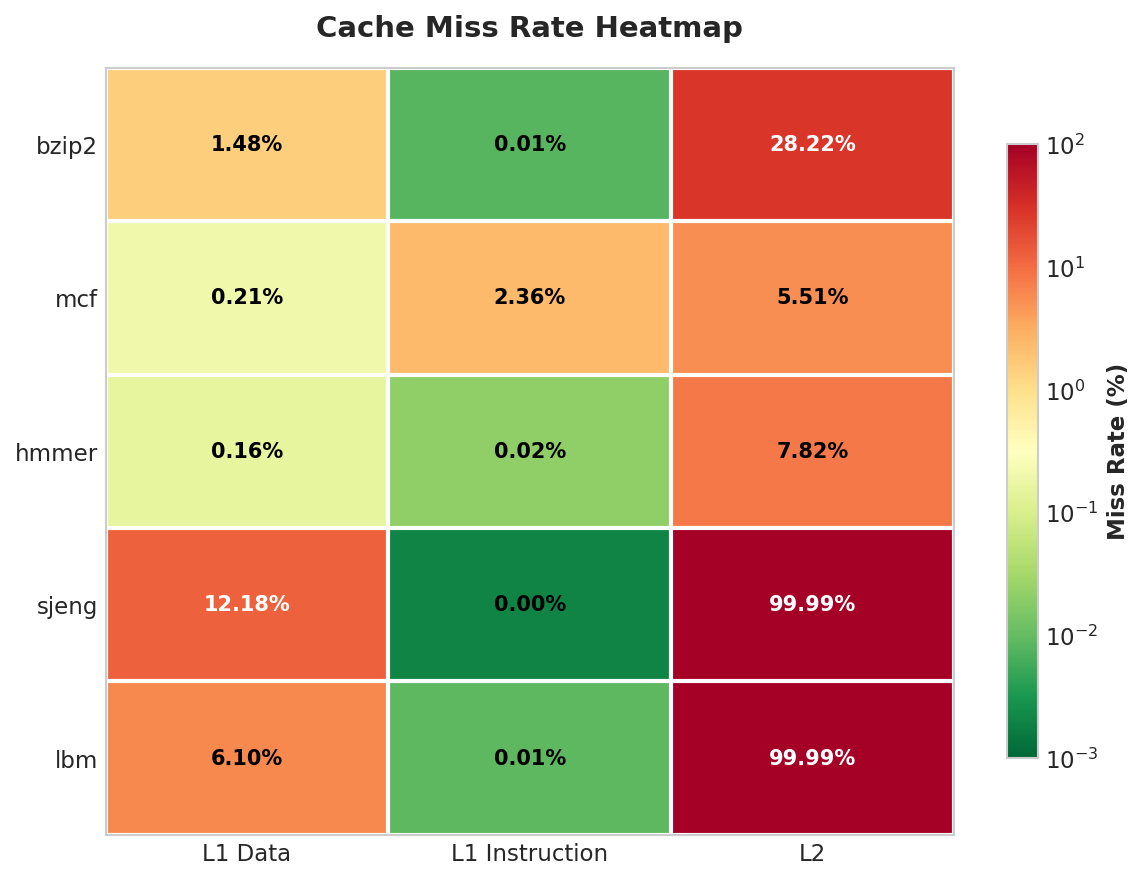
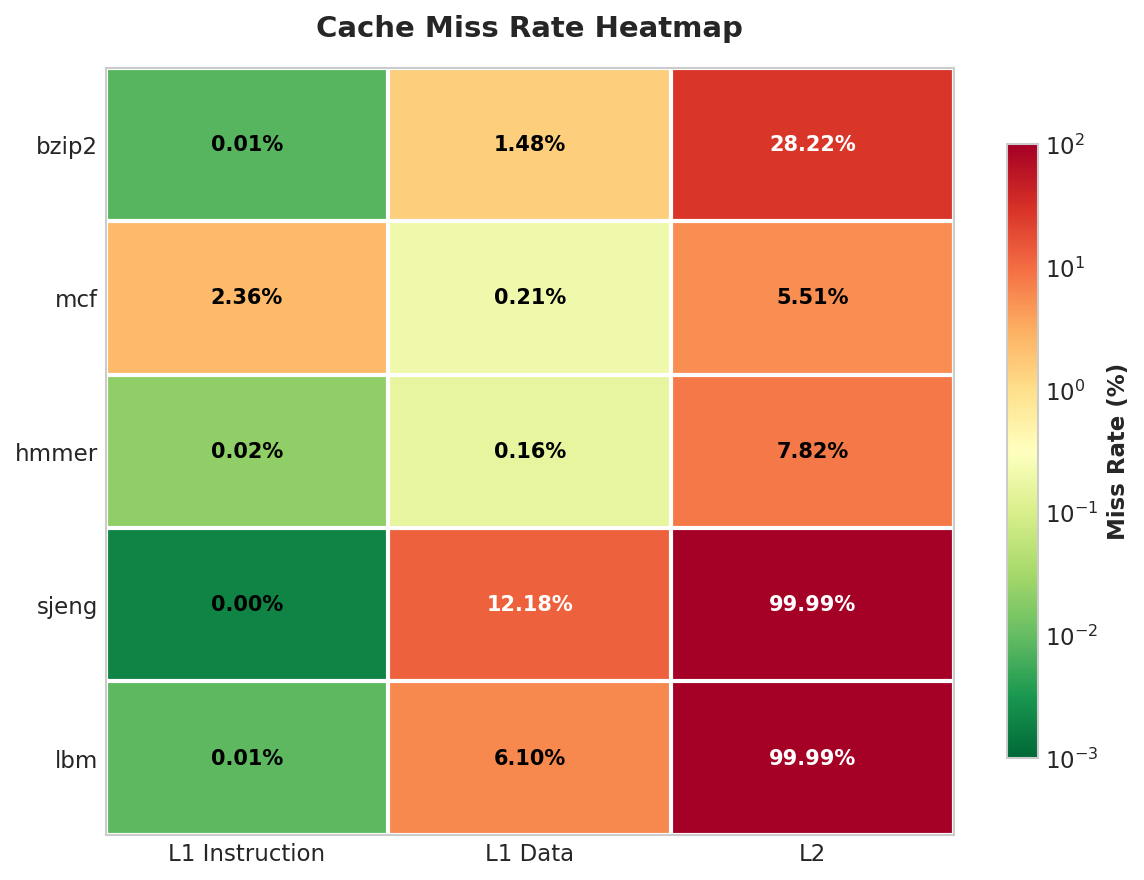
docs: improve "Part 1" of README report

diff --git a/bonus-assigment/scripts/plot_1.py b/bonus-assigment/scripts/plot_1.py
@@ -114,8 +114,8 @@ print(f"✓ Created: cpi_simtime_dual_axis.png")
 # =============================================================================
 fig, ax = plt.subplots(figsize=(8, 6))
 
-miss_data = np.array([l1d_miss, l1i_miss, l2_miss]).T
-cache_levels = ['L1 Data', 'L1 Instruction', 'L2']
+miss_data = np.array([l1i_miss, l1d_miss, l2_miss]).T
+cache_levels = ['L1 Instruction', 'L1 Data', 'L2']
 
 import matplotlib.colors as mcolors
 norm = mcolors.LogNorm(vmin=0.001, vmax=100)
@@ -305,15 +305,19 @@ plt.close()
 print(f"✓ Created: scaling_vs_cache_miss.png")
 
 # =============================================================================
-# Question 4: Memory Technology Impact - Improvement vs L2 Miss Rate
+# Question 4: Memory Technology Impact - Improvement vs Effective DRAM Miss Rate
 # =============================================================================
 
-# Data: DDR3_1600 (Baseline) vs DDR3_2133 (Upgraded) - sorted by L2 miss rate
+# Data: DDR3_1600 (Baseline) vs DDR3_2133 (Upgraded) - sorted by effective miss rate
 benchmarks_mem = ['hmmer', 'mcf', 'bzip2', 'lbm', 'sjeng']
 cpi_1600 = [1.1879, 1.2940, 1.6800, 3.4938, 10.2705]
 cpi_2133 = [1.1877, 1.2909, 1.6719, 3.4306, 9.8626]
 l2_miss_mem = [7.82, 5.51, 28.22, 99.99, 99.99]
 l1d_miss_mem = [0.16, 0.21, 1.48, 6.10, 12.18]
+
+# Combined metric: effective DRAM miss rate = L1d_miss × L2_miss / 100
+# This captures the fraction of instructions that actually reach main memory
+effective_miss = [l1d * l2 / 100 for l1d, l2 in zip(l1d_miss_mem, l2_miss_mem)]
 
 # Calculate improvements
 improvement = [(old - new) / old * 100 for old, new in zip(cpi_1600, cpi_2133)]
@@ -323,48 +327,51 @@ fig, ax = plt.subplots(figsize=(12, 8))
 ax.set_facecolor('#fafbfc')
 fig.patch.set_facecolor('white')
 
-# Background zones
-compute_zone = Rectangle((0, -0.5), 30, 5, linewidth=0, 
+# Use log scale for x-axis to spread out the compute-bound benchmarks
+ax.set_xscale('log')
+
+# Background zones (in log space: 0.005–0.5 compute, 0.5–15 memory)
+compute_zone = Rectangle((0.005, -0.5), 0.495, 5.8, linewidth=0, 
                           facecolor=colors['accent'], alpha=0.12)
 ax.add_patch(compute_zone)
-memory_zone = Rectangle((30, -0.5), 80, 5, linewidth=0, 
+memory_zone = Rectangle((0.5, -0.5), 14.5, 5.8, linewidth=0, 
                          facecolor=colors['danger'], alpha=0.12)
 ax.add_patch(memory_zone)
 
 # Zone labels
-ax.text(15, 4.3, 'COMPUTE-BOUND', fontsize=10, fontweight='bold', 
+ax.text(0.07, 4.3, 'COMPUTE-BOUND', fontsize=10, fontweight='bold', 
         ha='center', color=colors['accent'], alpha=0.8)
-ax.text(70, 4.3, 'MEMORY-BOUND', fontsize=10, fontweight='bold', 
+ax.text(4.0, 4.3, 'MEMORY-BOUND', fontsize=10, fontweight='bold', 
         ha='center', color=colors['danger'], alpha=0.8)
 
 # Divider line
-ax.axvline(x=30, color='#cbd5e1', linestyle='--', linewidth=1.5, alpha=0.7)
+ax.axvline(x=0.5, color='#cbd5e1', linestyle='--', linewidth=1.5, alpha=0.7)
 
 # Custom colormap
 custom_cmap = LinearSegmentedColormap.from_list('improvement', 
     ['#94a3b8', '#f59e0b', '#ef4444', '#dc2626'], N=256)
 
-# Bubble sizes based on L1d miss rate (traffic volume indicator)
-bubble_sizes = [m * 80 + 200 for m in l1d_miss_mem]
+# Fixed bubble size
+bubble_sizes = [400] * len(benchmarks_mem)
 
 # Shadow layer
-ax.scatter(l2_miss_mem, improvement, s=[s * 1.5 for s in bubble_sizes], 
+ax.scatter(effective_miss, improvement, s=[s * 1.5 for s in bubble_sizes], 
            c=improvement, cmap=custom_cmap, alpha=0.12, 
            vmin=0, vmax=4.5, zorder=1)
 
 # Main bubbles
-scatter = ax.scatter(l2_miss_mem, improvement, s=bubble_sizes, 
+scatter = ax.scatter(effective_miss, improvement, s=bubble_sizes, 
                      c=improvement, cmap=custom_cmap, alpha=0.9, 
                      edgecolors='white', linewidths=2.5, 
                      vmin=0, vmax=4.5, zorder=2)
 
-# Adjusted label configurations per user request
+# Label configurations adjusted for log-scale x-axis
 label_configs_mem = {
-    'hmmer': {'offset': (15, -8), 'ha': 'left'},
-    'mcf': {'offset': (12, 20), 'ha': 'left'},       # top right, moved up
-    'bzip2': {'offset': (18, -12), 'ha': 'left'},    # more down and right
-    'lbm': {'offset': (-20, 12), 'ha': 'right'},
-    'sjeng': {'offset': (-28, -10), 'ha': 'right'}   # more left
+    'hmmer': {'offset': (15, -12), 'ha': 'left'},
+    'mcf': {'offset': (-15, 14), 'ha': 'right'},
+    'bzip2': {'offset': (-18, 16), 'ha': 'right'},
+    'lbm': {'offset': (-24, 17), 'ha': 'right'},
+    'sjeng': {'offset': (-28, -16), 'ha': 'right'}
 }
 
 for i, benchmark in enumerate(benchmarks_mem):
@@ -385,24 +392,25 @@ for i, benchmark in enumerate(benchmarks_mem):
         bg_color = '#fee2e2'
         edge_color = '#ef4444'
     
-    # Simplified annotation: benchmark name and improvement (no L1d, no +)
+    # Annotation: benchmark name and improvement
     ax.annotate(f'{benchmark}\n{imp_val:.2f}%', 
-                (l2_miss_mem[i], improvement[i]),
+                (effective_miss[i], improvement[i]),
                 xytext=config['offset'], textcoords='offset points',
                 fontsize=10, fontweight='bold', ha=config['ha'], va='center',
+                multialignment='center',
                 color=label_color,
                 bbox=dict(boxstyle='round,pad=0.4', facecolor=bg_color, 
                          alpha=0.95, edgecolor=edge_color, linewidth=1.5),
                 zorder=3)
 
-# Trend line with R² value
-z = np.polyfit(l2_miss_mem, improvement, 1)
+# Trend line with R² value (fit in linear space, curves naturally on log axis)
+z = np.polyfit(effective_miss, improvement, 1)
 p = np.poly1d(z)
-x_line = np.linspace(0, 110, 200)  # Stay within plot area
+x_line = np.logspace(np.log10(0.005), np.log10(20), 200)
 y_line = p(x_line)
 
-# R² calculation
-correlation_mem = np.corrcoef(l2_miss_mem, improvement)[0, 1]
+# R² calculation (linear space)
+correlation_mem = np.corrcoef(effective_miss, improvement)[0, 1]
 r_squared = correlation_mem ** 2
 
 # Trend line
@@ -410,23 +418,20 @@ ax.plot(x_line, y_line, '-', color='#8b5cf6', linewidth=4, alpha=0.15, zorder=0)
 ax.plot(x_line, y_line, '--', color='#7c3aed', linewidth=2.5, alpha=0.85, 
         label=f'Trend (R² = {r_squared:.2f}, ρ = {correlation_mem:.2f})', zorder=1)
 
-# Colorbar
-cbar = plt.colorbar(scatter, ax=ax, shrink=0.75, pad=0.02)
-cbar.set_label('CPI Improvement (%)', fontsize=11, fontweight='bold')
-cbar.outline.set_linewidth(0.5)
+
 
 # Labels and title
-ax.set_xlabel('L2 Cache Miss Rate (%)', fontsize=13, fontweight='bold', labelpad=12)
+ax.set_xlabel('Effective DRAM Miss Rate  (L1d Miss × L2 Miss / 100)', fontsize=13, fontweight='bold', labelpad=12)
 ax.set_ylabel('CPI Improvement from Memory Upgrade (%)', fontsize=13, fontweight='bold', labelpad=12)
 ax.set_title('Memory Upgrade Benefit: DDR3_1600 → DDR3_2133 (+33% Bandwidth)', 
-             fontsize=16, fontweight='bold', pad=20, color='#1e293b')
+             fontsize=16, fontweight='bold', pad=30, color='#1e293b')
 
 # Subtitle
-ax.text(0.5, 1.015, f'Positive correlation (ρ = {correlation_mem:.2f}) · Bubble size ∝ L1d Miss Rate (memory traffic)',
+ax.text(0.5, 1.03, f'Strong correlation (ρ = {correlation_mem:.2f}) · X-axis combines L1d & L2 miss rates',
         transform=ax.transAxes, fontsize=10, ha='center', va='top', 
         color='#64748b', fontstyle='italic')
 
-ax.set_xlim(-5, 115)
+ax.set_xlim(0.005, 20)
 ax.set_ylim(-0.3, 4.8)
 
 # Styling
@@ -442,9 +447,9 @@ ax.legend(loc='upper left', fontsize=10, framealpha=0.95,
           facecolor='white', edgecolor='#e2e8f0')
 
 plt.tight_layout()
-plt.savefig(output_dir / 'memory_improvement_vs_l2miss.png', dpi=200, bbox_inches='tight',
+plt.savefig(output_dir / 'memory_improvement_vs_effective_miss.png', dpi=200, bbox_inches='tight',
             facecolor='white', edgecolor='none')
 plt.close()
-print(f"✓ Created: memory_improvement_vs_l2miss.png")
+print(f"✓ Created: memory_improvement_vs_effective_miss.png")
 
 print(f"\n✅ All plots saved to: {output_dir.resolve()}")

diff --git a/bonus-assigment/scripts/plot_2.py b/bonus-assigment/scripts/plot_2.py
@@ -7,9 +7,6 @@ Professional plotting for gem5 SPEC benchmark results.
 Generates:
 1. Configuration Scatter Plot (L1d size vs CPI)
 2. Per-benchmark CPI Progression Curves
-
-Author: Auto-generated
-Date: 2025-12-31
 """
 
 import os

diff --git a/bonus-assigment/README.md b/bonus-assigment/README.md
@@ -35,21 +35,21 @@
 
 ### Question 1: System Parameters
 
-The following system parameters were extracted from the gem5 configuration files (`config.ini`):
+The following system parameters were extracted from the gem5 configuration files ([`config.ini`](results/default/specbzip/config.ini)):
 
 #### Cache Configuration
 
 | Component | Size | Associativity | Block Size | Latency |
 |-----------|------|---------------|------------|---------|
-| **L1 Instruction Cache** | 32 KB | 2-way | 64 bytes | 2 cycles |
-| **L1 Data Cache** | 64 KB | 2-way | 64 bytes | 2 cycles |
-| **L2 Cache** | 2 MB | 8-way | 64 bytes | 20 cycles |
+| [**L1 Instruction Cache**](results/default/specbzip/config.ini#L789) | 32 KB | 2-way | 64 bytes | 2 cycles |
+| [**L1 Data Cache**](results/default/specbzip/config.ini#L155) | 64 KB | 2-way | 64 bytes | 2 cycles |
+| [**L2 Cache**](results/default/specbzip/config.ini#L994) | 2 MB | 8-way | 64 bytes | 20 cycles |
 
-#### Memory Subsystem
+#### [Memory Subsystem](results/default/specbzip/config.ini#L1062)
 
 | Parameter | Value |
 |-----------|-------|
-| **Main Memory Type** | DDR3_1600_x64 |
+| [**Main Memory Type**](results/default/specbzip/config.dot#L216) | DDR3_1600_x64 |
 | **Memory Capacity** | 512 MB |
 | **Memory Clock Period (tCK)** | 1250 ps (800 MHz) |
 | **CAS Latency (tCL)** | 13.75 ns |
@@ -61,19 +61,19 @@ The following system parameters were extracted from the gem5 configuration files
 
 | Clock Domain | Period | Frequency |
 |--------------|--------|-----------|
-| **System Clock** (`system.clk_domain`) | 1000 ps | 1 GHz |
-| **CPU Clock** (`system.cpu_clk_domain`) | 500 ps | 2 GHz |
+| [**System Clock**](results/default/specbzip/config.ini#L44) (`system.clk_domain`) | 1000 ps | 1 GHz |
+| [**CPU Clock**](results/default/specbzip/config.ini#L973) (`system.cpu_clk_domain`) | 500 ps | 2 GHz |
 
 #### CPU Configuration
 
 | Parameter | Value |
 |-----------|-------|
-| **CPU Type** | MinorCPU (in-order pipeline) |
+| [**CPU Type**](results/default/specbzip/config.ini#L52) | MinorCPU (in-order pipeline) |
 | **Max Instructions** | 100,000,000 |
 | **Execute Commit Limit** | 2 instructions/cycle |
 | **Execute Issue Limit** | 2 instructions/cycle |
 | **Decode Input Width** | 2 |
-| **Branch Predictor** | TournamentBP (8192 entries) |
+| [**Branch Predictor**](results/default/specbzip/config.ini#L124) | TournamentBP (8192 entries) |
 
 ---
 
@@ -142,29 +142,29 @@ The simulation results highlight a **massive disparity in performance**, driven 
 ##### 3. The "Streaming" Workload (lbm)
 
 **lbm** (CPI = 3.494)
-- Lattice Boltzmann fluid dynamics simulation with large array operations
-- **L1 Miss (6.1%):** Manageable — hardware prefetcher helps with sequential data
-- **L2 Miss (99.99%):** Catastrophic — dataset far exceeds L2 capacity
-- **Bottleneck:** Memory Bandwidth. L2 becomes a "pass-through" buffer; performance limited by RAM throughput.
+- Lattice Boltzmann fluid dynamics simulation with large array operations (massive 3D grid, hundreds of megabytes)
+- **L1 Miss (6.1%):** Manageable: hardware prefetcher helps with sequential data
+- **L2 Miss (99.99%):** Catastrophic: dataset far exceeds L2 capacity
+- **Bottleneck:** Memory Bandwidth. L2 becomes a "pass-through" buffer, performance limited by RAM throughput.
 
 ##### 4. The "Thrashing" Anomaly (sjeng)
 
 **sjeng** (Worst performer, CPI = 10.271)
 - Chess engine with complex data structures (game trees, hash tables)
-- **L1 Miss (12.18%):** Highest in suite — random tree traversals defeat spatial locality
-- **L2 Miss (99.99%):** Effectively 100%
-- **The Compound Effect:** High L1 misses + 100% L2 misses = massive volume of DRAM requests. Memory bandwidth saturates, and DRAM latency dominates execution time.
+- **L1 Miss (12.18%):** Highest in suite: random tree traversals defeat spatial locality
+- **L2 Miss (99.99%):** Catastrophic: random access patterns prevent any successful caching
+- **The Compound Effect:** High L1 misses + 100% L2 misses = frequent stalls. The CPU constantly waits for data, exposing the full DRAM access latency.
 - **Bottleneck:** Memory Latency. CPU stalls on almost every memory instruction.
 
 #### Architectural Bottleneck Summary
 
 | Benchmark | Classification | Primary Bottleneck |
 |-----------|----------------|-------------------|
-| **hmmer** | Compute-Bound | None — excellent locality keeps pipeline full |
+| **hmmer** | Compute-Bound | None - excellent locality keeps pipeline full |
 | **mcf** | Compute/Branch-Bound | Branch prediction (2.36% L1i miss rate) |
 | **bzip2** | Mixed | L2 capacity (28% miss rate) |
 | **lbm** | Bandwidth-Bound | L2 capacity & memory bandwidth (99.99% L2 miss) |
-| **sjeng** | Latency-Bound | Memory latency — stalling on nearly every access |
+| **sjeng** | Latency-Bound | Memory latency - stalling on nearly every access |
 
 ---
 
@@ -176,9 +176,9 @@ Three configurations were tested using `--cpu-clock` parameter:
 
 | Configuration | `system.clk_domain.clock` | `cpu_clk_domain.clock` | CPU Frequency |
 | :--- | :---: | :---: | :---: |
-| **1 GHz Test** | 1000 ps (1 GHz) | 1000 ps | **1 GHz** |
-| **Default** | 1000 ps (1 GHz) | 500 ps | **2 GHz** |
-| **4 GHz Test** | 1000 ps (1 GHz) | 250 ps | **4 GHz** |
+| [**1 GHz Test**](results/1GHz/specbzip/config.ini) | 1000 ps (1 GHz) | 1000 ps | **1 GHz** |
+| [**Default**](results/default/specbzip/config.ini) | 1000 ps (1 GHz) | 500 ps | **2 GHz** |
+| [**4 GHz Test**](results/4GHz/specbzip/config.ini) | 1000 ps (1 GHz) | 250 ps | **4 GHz** |
 
 > **Key Finding:** The `system.clk_domain` remains constant at 1 GHz across all tests, while only `cpu_clk_domain` changes with the `--cpu-clock` parameter.
 
@@ -229,7 +229,7 @@ Three configurations were tested using `--cpu-clock` parameter:
 #### Scaling Efficiency Visualization
 
 ![Scaling Efficiency vs Cache Miss Rate](plots/task1/scaling_vs_cache_miss.png)
-*Figure 3: Strong negative correlation ($\rho = -0.99$) between L2 miss rate and frequency scaling efficiency. Higher cache misses = worse scaling.*
+*Figure 3: Strong negative correlation (ρ = -0.99) between L2 miss rate and frequency scaling efficiency. Higher cache misses = worse scaling.*
 
 > **Key Insight:** L2 miss rate is the **single best predictor** of frequency scaling efficiency. Benchmarks with <30% L2 miss rate achieve >85% scaling efficiency.
 
@@ -261,7 +261,7 @@ Three configurations were tested using `--cpu-clock` parameter:
 
 Benchmarks were re-run with upgraded memory to evaluate the impact of faster DRAM:
 
-| Memory Technology | DDR3_1600_x64 (Baseline) | DDR3_2133_x64 (Upgraded) |
+| Memory Technology | [DDR3_1600_x64 (Baseline)](results/default/specbzip/config.ini) | [DDR3_2133_x64 (Upgraded)](results/DDR3_2133_8x8/specbzip/config.ini) |
 |-------------------|--------------------------|--------------------------|
 | **Memory Clock** | 800 MHz | 1066 MHz |
 | **Peak Bandwidth** | 12.8 GB/s | 17.0 GB/s |
@@ -273,16 +273,16 @@ Benchmarks were re-run with upgraded memory to evaluate the impact of faster DRA
 
 #### DDR3_2133 Benchmark Results
 
-| Benchmark | Sim Time (s) | CPI | L2 Miss Rate | Improvement |
-|-----------|--------------|-----|--------------|-------------|
-| **401.bzip2** | 0.083597 | 1.6719 | 28.22% | **0.48%** |
-| **429.mcf** | 0.064545 | 1.2909 | 5.51% | **0.24%** |
-| **456.hmmer** | 0.059383 | 1.1877 | 7.82% | **0.02%** |
-| **458.sjeng** | 0.493128 | 9.8626 | 99.99% | **3.97%** |
-| **470.lbm** | 0.171529 | 3.4306 | 99.99% | **1.81%** |
+| Benchmark | Sim Time (s) | CPI | Improvement |
+|-----------|--------------|-----|-------------|
+| **401.bzip2** | 0.083597 | 1.6719 | **0.48%** |
+| **429.mcf** | 0.064545 | 1.2909 | **0.24%** |
+| **456.hmmer** | 0.059383 | 1.1877 | **0.02%** |
+| **458.sjeng** | 0.493128 | 9.8626 | **3.97%** |
+| **470.lbm** | 0.171529 | 3.4306 | **1.81%** |
 
-![Memory Upgrade Benefit](plots/task1/memory_improvement_vs_l2miss.png)
-*Figure 4: Memory upgrade benefit correlates positively with L2 miss rate.*
+![Memory Upgrade Benefit](plots/task1/memory_improvement_vs_effective_miss.png)
+*Figure 4: Memory upgrade benefit correlates strongly with effective DRAM miss rate (L1d × L2 / 100, log-scale x-axis).*
 
 > **Expected Behavior Confirmed:** Cache miss rates remain **identical** between memory technologies — miss rates depend on access patterns and cache hierarchy design, not memory speed.
 
@@ -290,21 +290,19 @@ Benchmarks were re-run with upgraded memory to evaluate the impact of faster DRA
 
 #### Performance Improvement Analysis
 
-##### Improvement vs. L2 Miss Rate Correlation
+##### Improvement vs. Effective DRAM Miss Rate Correlation
 
-| Benchmark | L2 Miss Rate | CPI Improvement | Classification |
-|-----------|--------------|-----------------|----------------|
-| **hmmer** | 7.82% | 0.02% | 🟢 Compute-bound |
-| **mcf** | 5.51% | 0.24% | 🟢 Compute-bound |
-| **bzip2** | 28.22% | 0.48% | 🟡 Mixed |
-| **lbm** | 99.99% | 1.81% | 🔴 Memory-bound |
-| **sjeng** | 99.99% | 3.97% | 🔴 Severely Memory-bound |
+L2 miss rate alone poorly predicts memory upgrade benefit — sjeng and lbm both have 99.99% L2 miss rate but very different improvements. Instead, we use **Effective DRAM Miss Rate = L1d Miss × L2 Miss / 100**, which captures the actual fraction of instructions reaching main memory.
 
-##### Why sjeng Benefits More Than lbm (Both Have 99.99% L2 Miss Rate)?
+| Benchmark | L1d Miss | L2 Miss | Effective DRAM Miss | CPI Improvement | Classification |
+|-----------|----------|---------|--------------------:|----------------:|----------------|
+| **hmmer** | 0.16% | 7.82% | 0.013 | 0.02% | 🟢 Compute-bound |
+| **mcf** | 0.21% | 5.51% | 0.012 | 0.24% | 🟢 Compute-bound |
+| **bzip2** | 1.48% | 28.22% | 0.418 | 0.48% | 🟡 Mixed |
+| **lbm** | 6.10% | 99.99% | 6.099 | 1.81% | 🔴 Memory-bound |
+| **sjeng** | 12.18% | 99.99% | 12.179 | 3.97% | 🔴 Severely Memory-bound |
 
-Despite identical L2 miss rates, **sjeng gains 2× more** from faster memory than lbm because of **L1d miss rate differences**: sjeng has 12.18% L1d miss rate vs lbm's 6.10%, meaning sjeng generates **2× more memory requests** that can benefit from faster DRAM.
-
-**Key Insight:** The **volume of memory traffic** (driven by L1 miss rate) determines memory upgrade benefit when L2 miss rates are equal.
+This combined metric yields a near-perfect correlation (**ρ = 0.99, R² = 0.99**), confirming that the **volume of memory traffic reaching DRAM** determines memory upgrade benefit.
 
 ---
 
